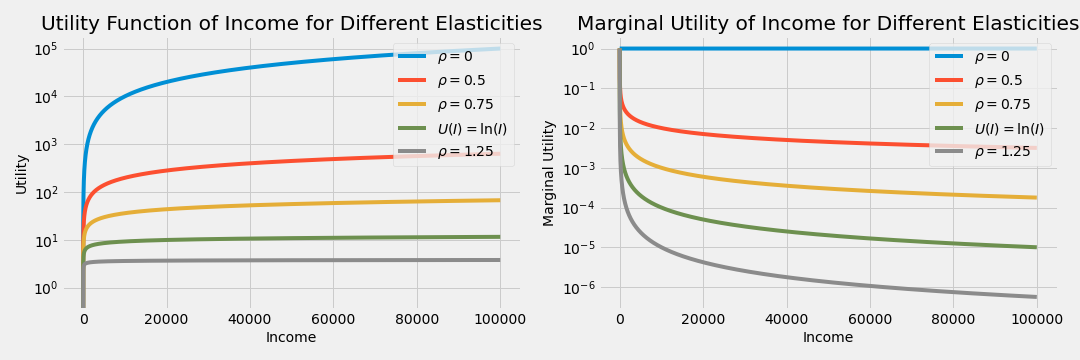
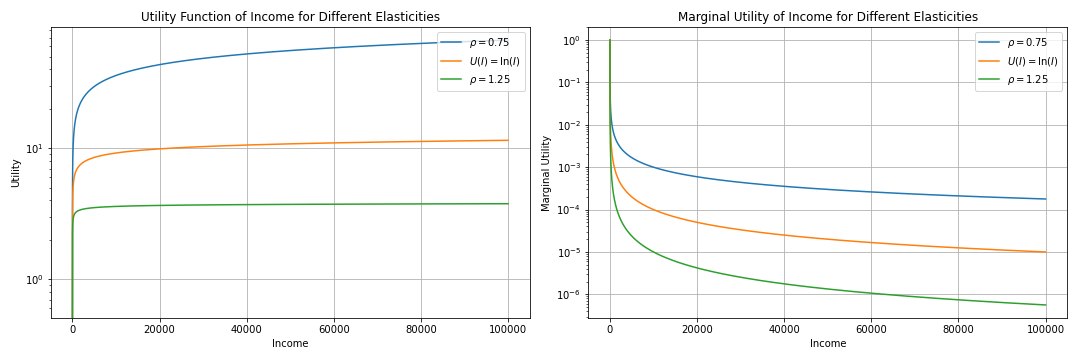
readme

diff --git a/code/utility function.py b/code/utility function.py
@@ -42,7 +42,8 @@ plt.legend()
 #### multiple elasticities
 # List of different elasticity values
 elasticities = [0, 0.8, 0.9, 1, 1.1, 1.2]
-elasticities = [0, 0.5, 0.75, 1, 1.25]
+elasticities = [0.75, 1, 1.25]
+
 
 plt.figure(figsize=(15, 5))
 

diff --git a/README.md b/README.md
@@ -1,6 +1,8 @@
 # inequality-metrics
 
-One of the best known ways of measuring income inequality in a population is the **Gini coefficient**. Taking values from 0 to 1, it is calculated as "the expected gap as a share of twice the mean income." In other words, if you were to find two random people on the street, what is the expected difference in their incomes (relative to the average income in that population). As such, it is a pure calculation of income distribution in a population, but it provides no information about whether that is a result of a few extreme "haves" or many "have-notes". Nor does it make any judgements about whether either type of inequality is more important.
+![Image: Income distributions of the United States, Sweden, Czechia, Brazil, Armenia and Nigeria](viz/real%20income%20distributions.png)
+
+There are many ways of measuring inequality in an income distribution. One of the best known ways is the **Gini coefficient**. Taking values from 0 to 1, it is calculated as "the expected gap as a share of twice the mean income." In other words, if you were to find two random people on the street, what is the expected difference in their incomes (relative to the average income in that population). As such, it is a pure calculation of income distribution in a population, but it provides no information about whether that is a result of a few extreme "haves" or many "have-nots". Nor does it make any judgements about whether either type of inequality is more important.
 
 One inequality measure that does make such judgements is the **Atkinson index**. Its best known use is in the United Nations' inequality-adjusted Human Development Index (IHDI). Also taking values from 0 to 1, its key difference is that it assumes a diminishing marginal utility of income. Thus, it actively de-emphasises inequality at the upper end of the distribution, putting more weight on differences between lower incomes. This assumption is regulated in the Atkinson by an "inequality aversion parameter", $\epsilon$. 
 
@@ -29,17 +31,8 @@ where $y_i$ is individual income $(i = 1, 2, \ldots, N)$ and  $\mu$ is the mean 
  </div>
 
 
-$\epsilon$ is the "inequality aversion parameter". It is equivalent to the income elasticity of the marginal utility of income, in other words it is the rate at which the marginal utility of income changes as income itself changes. Typically, this is denoted in economics as $\rho$. When $\rho$ is 1, the marginal utility of income is inversely proportional to income:
+$\epsilon$ is the "inequality aversion parameter". It is equivalent to the income elasticity of the marginal utility of income, in other words it is the rate at which the marginal utility of income changes as income itself changes. In economics, this is typically denoted as $\rho$. When $\rho$ is 1, utility, $u$, is logarithmically related to income and the marginal utility of income is inversely proportional to income:
 
-
-
-
-<div style="text-align: right"> Source: <a href="https://eprints.lse.ac.uk/19745/1/The_Marginal_Utility_of_Income.pdf">Layard et al. 2007</a>
- </div>
-
-The Atkinson measure used in the IHDI also sets this parameter to 1. 
-
-But it can be set to any non-negative value, and the higher the value is, the more that inequality at lower ends of the income distribution is emphasised. We can try to intuitively understand this by relating it to the utility function of income:
 
 $$
 u =
@@ -49,34 +42,39 @@ u =
 \end{cases}
 $$
 
+
+<div style="text-align: right"> Source: <a href="https://eprints.lse.ac.uk/19745/1/The_Marginal_Utility_of_Income.pdf">Layard et al. 2007</a>
+ </div>
+
+The Atkinson measure used in the IHDI also sets this parameter to 1. But it can be set to any non-negative value, and the higher the value is, the more that inequality at the lower end of the income distribution is emphasised. We can try to intuitively understand this by relating it to the utility function of income:
+
+
 ![Image: Utility functions across different income elasticities](viz/utility%20across%20elasticity.png)
 
-On the left is utility plotted against income. On the right is the marginal utility at each level of income (in other words, it is plotting the derivative of the utility function presented in the first graph).
+On the left is utility plotted against income. On the right is the marginal utility at each level of income (in other words, it is the derivative of the utility function presented in the first graph).
 
-When $\rho/\epsilon$ is at 1 (green line), utility has a logarithmic relationship with income, and the marginal utilities are inversely proportional to income, as seen in the equation above. If we increase rho or E even further, marginal utiilty decays even more strongly, and utility "plateaus" even sooner against income. And if we set $\rho/\epsilon$ at 0, there is no decay in marginal utility over income and utility increases linearly with income (blue line).
-
-When the Atkinson measure incorporates a value of $\epsilon$ above 0, it is assuming that differences in incomes among poorer sections of society are more important than other differences in incomes. We can see how this bears out mathematically in the next section.
+When $\rho/\epsilon$ is at 1 (green line), utility has a logarithmic relationship with income, with marginal utility inversely proportional to income. If we increase $\rho/\epsilon$ even further, marginal utility decays even more strongly and utility plateaus sooner. Therefore, when applied to the context of the Atkinson index, higher values of $\epsilon$ assume that differences in incomes among poorer sections of society are more important than other differences among higher incomes. We can see how this bears out mathematically in the next section.
 
 ## Visualising how E responds to inequalities in different parts of the income distribution
 
-Above, we showed the full equation to calculate the Atkinson measure. In fact, it can be understood in a much simpler form:
+Earlier, we showed the full equation to calculate the Atkinson measure. In fact, it can be understood in a much simpler form:
 
 
 $$
 A_\epsilon  =
 1 - \frac{\text{generalised mean}^{1-\epsilon}}{\text{arithmetic mean}} $$
 
-In other words, the Atkinson index is the complement to 1 of the ratio of the Hölder generalized mean of exponent 1−$\epsilon$ to the arithmetic mean of the incomes (where the generalized mean of exponent 0 is equivalent to the geometric mean). Thus, varying the exponent 1 - $\epsilon$ varies the generalised mean. The lower the generalised mean is than the arithmetic mean, the higher the Atkinson measure of inequality will be.
+In other words, the Atkinson index is the complement to 1 of the ratio of the Hölder generalized mean of exponent 1−$\epsilon$ to the arithmetic mean of the incomes (where the generalized mean of exponent 0 is equivalent to the geometric mean). As such, varying the exponent 1 - $\epsilon$ varies the generalised mean. The lower the generalised mean is than the arithmetic mean, the higher the Atkinson measure of inequality will be.
 
-We can demonstrate this by taking a simple distribution and plotting its **arithmetic mean** (blue, $\epsilon = 0$) against various **generalised means** (coloured lines, $\epsilon > 0$). Let's take a simple array of four values to represent quartiles of an income distribution. For each quartile, we vary its value and see what effect it has on the generalised means of the distribution.
+We can demonstrate this by taking a simple distribution and plotting its **arithmetic mean** (blue, $\epsilon = 0$) against various **generalised means** (coloured lines, $\epsilon > 0$), and interpreting inequality as the distance between those two lines. Let's take a simple array of four values, $[2, 4, 6, 8]$, to represent quartiles of an income distribution. For each quartile, we vary its value $x$ and see what effect it has on the generalised means of the distribution.
 
 ![Image: Generalised means for quartile-segmented distribution](viz/generalised%20mean%20quartiles%20dist.png)
 
-At higher positive values of $\epsilon$, the lower the generalised mean of the distribution generally is compared to the arithmetic mean. But this effect is different when varying *x* at different quartiles.
+At higher positive values of $\epsilon$, the lower the generalised mean of the distribution generally is compared to the arithmetic mean. But this effect is different when $x$ is varied at different quartiles.
 
-A look at the first quartile (top left) compared to the rest immediately shows how the Atkinson index treats inequalities at the lower end of the distribution more severely. Recall that the distance between the arithmetic mean and the generalised mean(s) determines the level of inequality. In the first quartile, therefore, varying x creates both the most *and* the least inequality compared to any other quartile in the distribution.
+A look at the first quartile (top left) compared to the rest immediately shows how the Atkinson index treats inequalities at the lower end of the distribution more severely. Recall that the distance between the arithmetic mean and the generalised mean(s) determines the level of inequality. In the first quartile, varying x creates both the most *and* the least inequality compared to any other quartile in the distribution.
 
-In other words, making the lowest quartile particularly poor hugely affects increases the level of inequality determined across the whole income distribution. Whereas making it nearly indistinguishable to the quartile above it also makes the whole income distribution more equal than when varying any other quartile. Comparatively, adjustments to the other quartiles yield only moderate levels of inequality at any level of that quartile.
+In other words, making the lowest quartile particularly poor hugely affects increases the level of inequality determined across the whole income distribution. Whereas bringing it closer to the middle incomes makes the whole income distribution more equal than when varying any other quartile. Comparatively, adjustments to the other quartiles yield only moderate levels of inequality at any level of that quartile.
 
 And what of the effect of $\epsilon$ on how severely inequality is determined? We can see that for higher values of $\epsilon$, the gap between the arithmetic mean and the generalised mean increases. But a second property is the steepness of each curve
 
